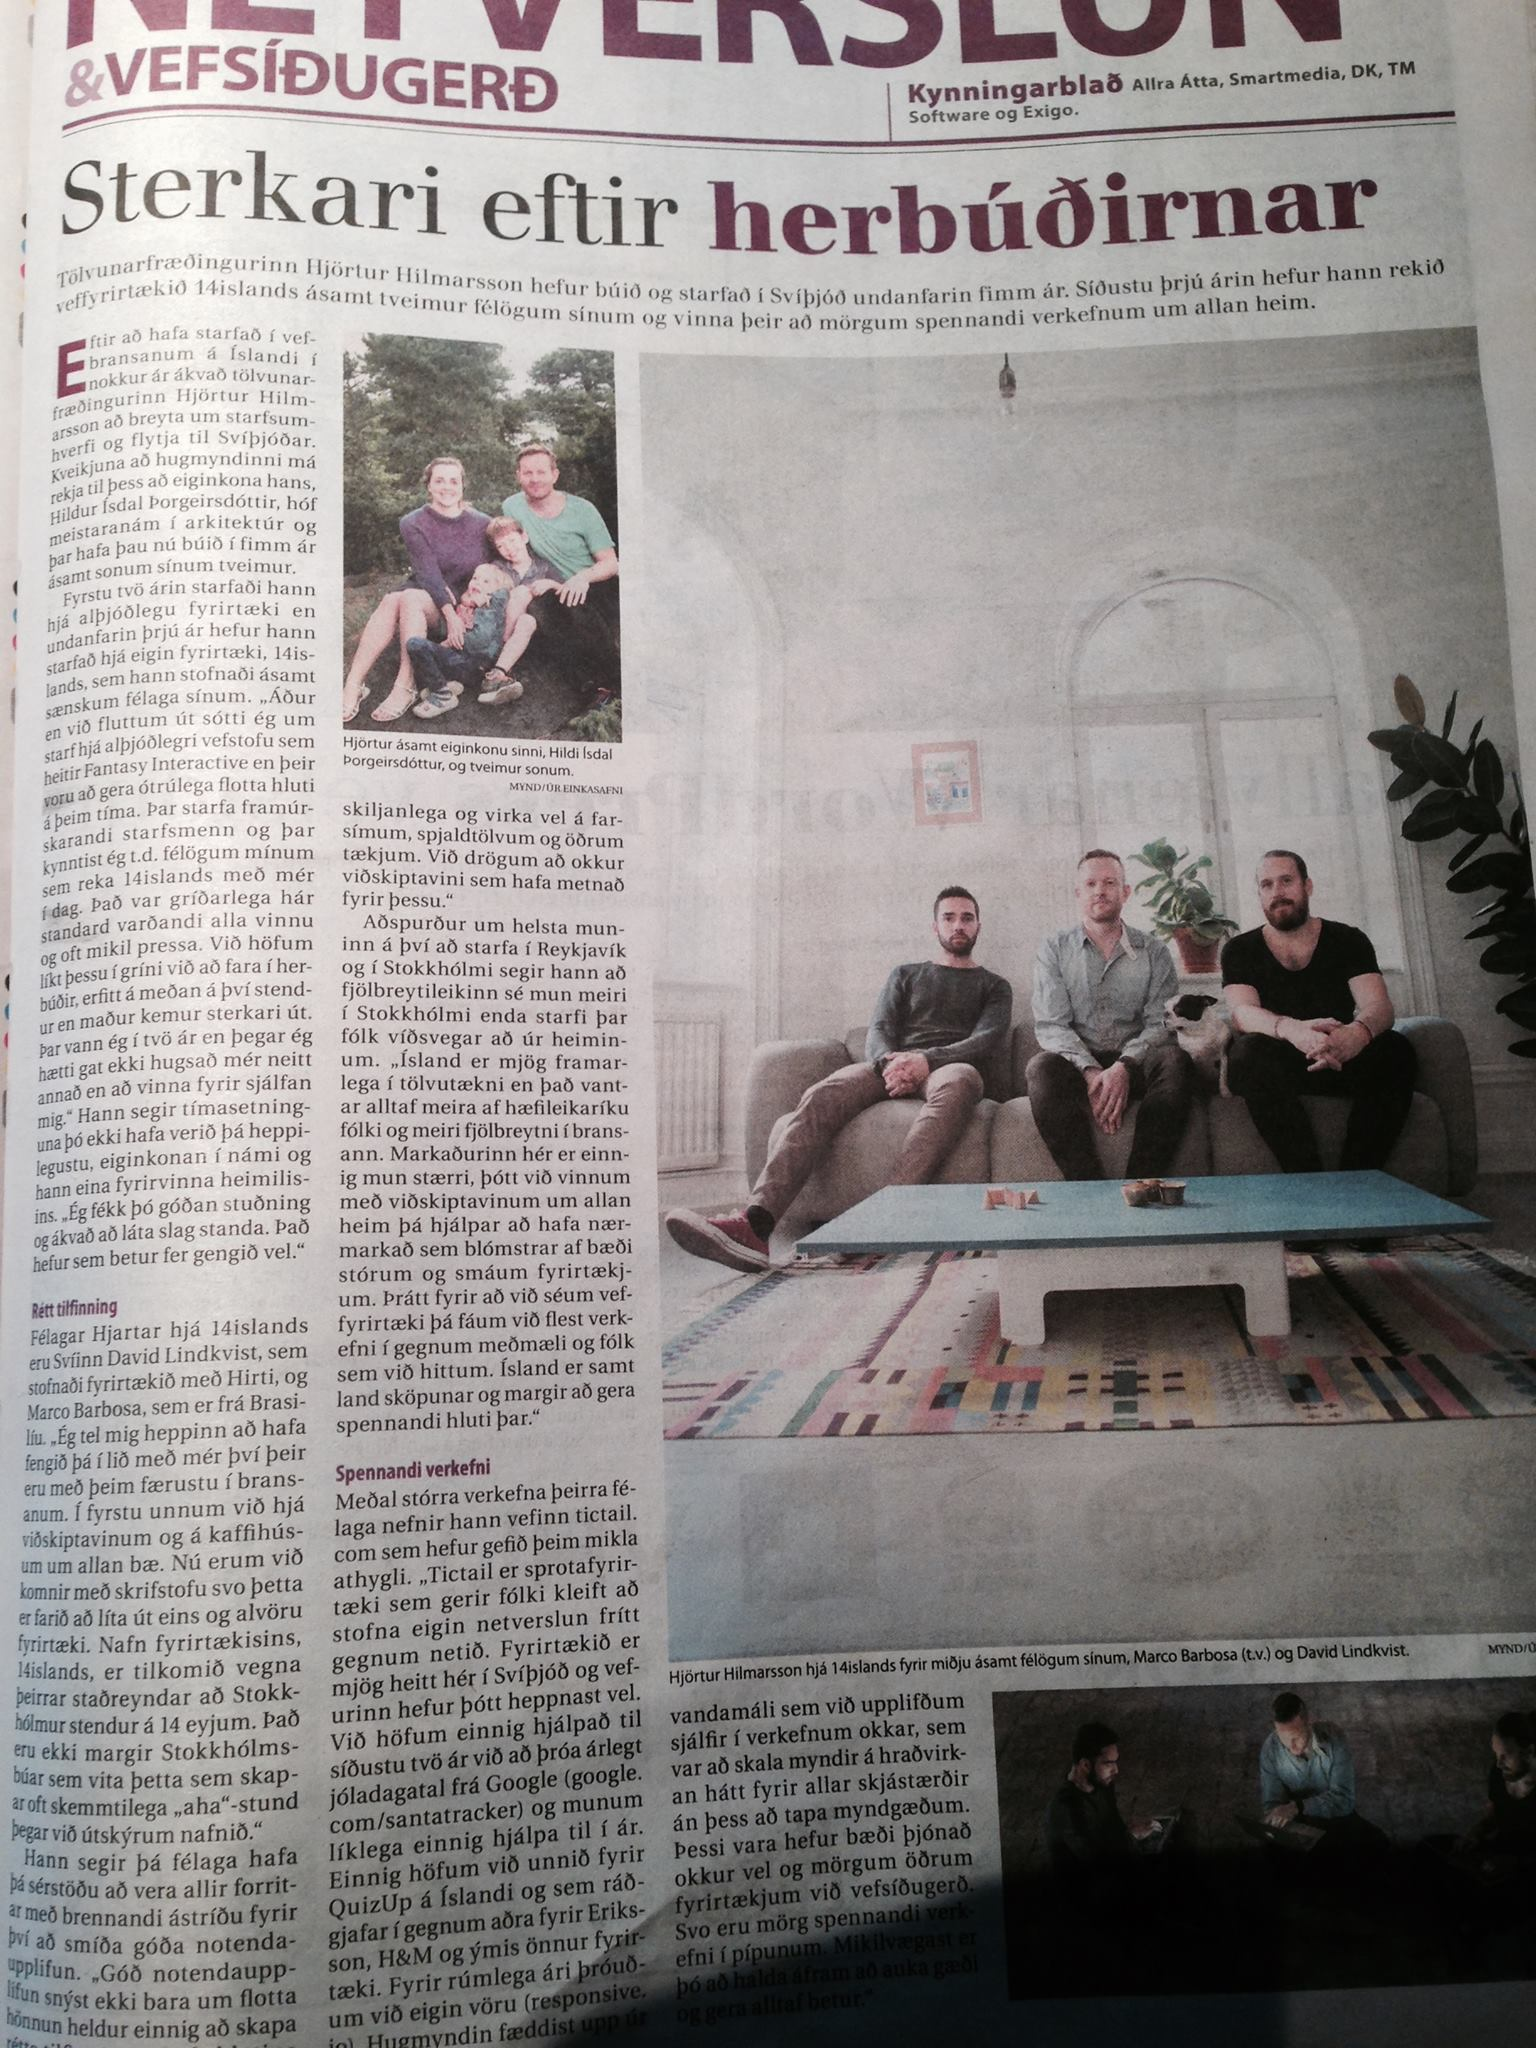
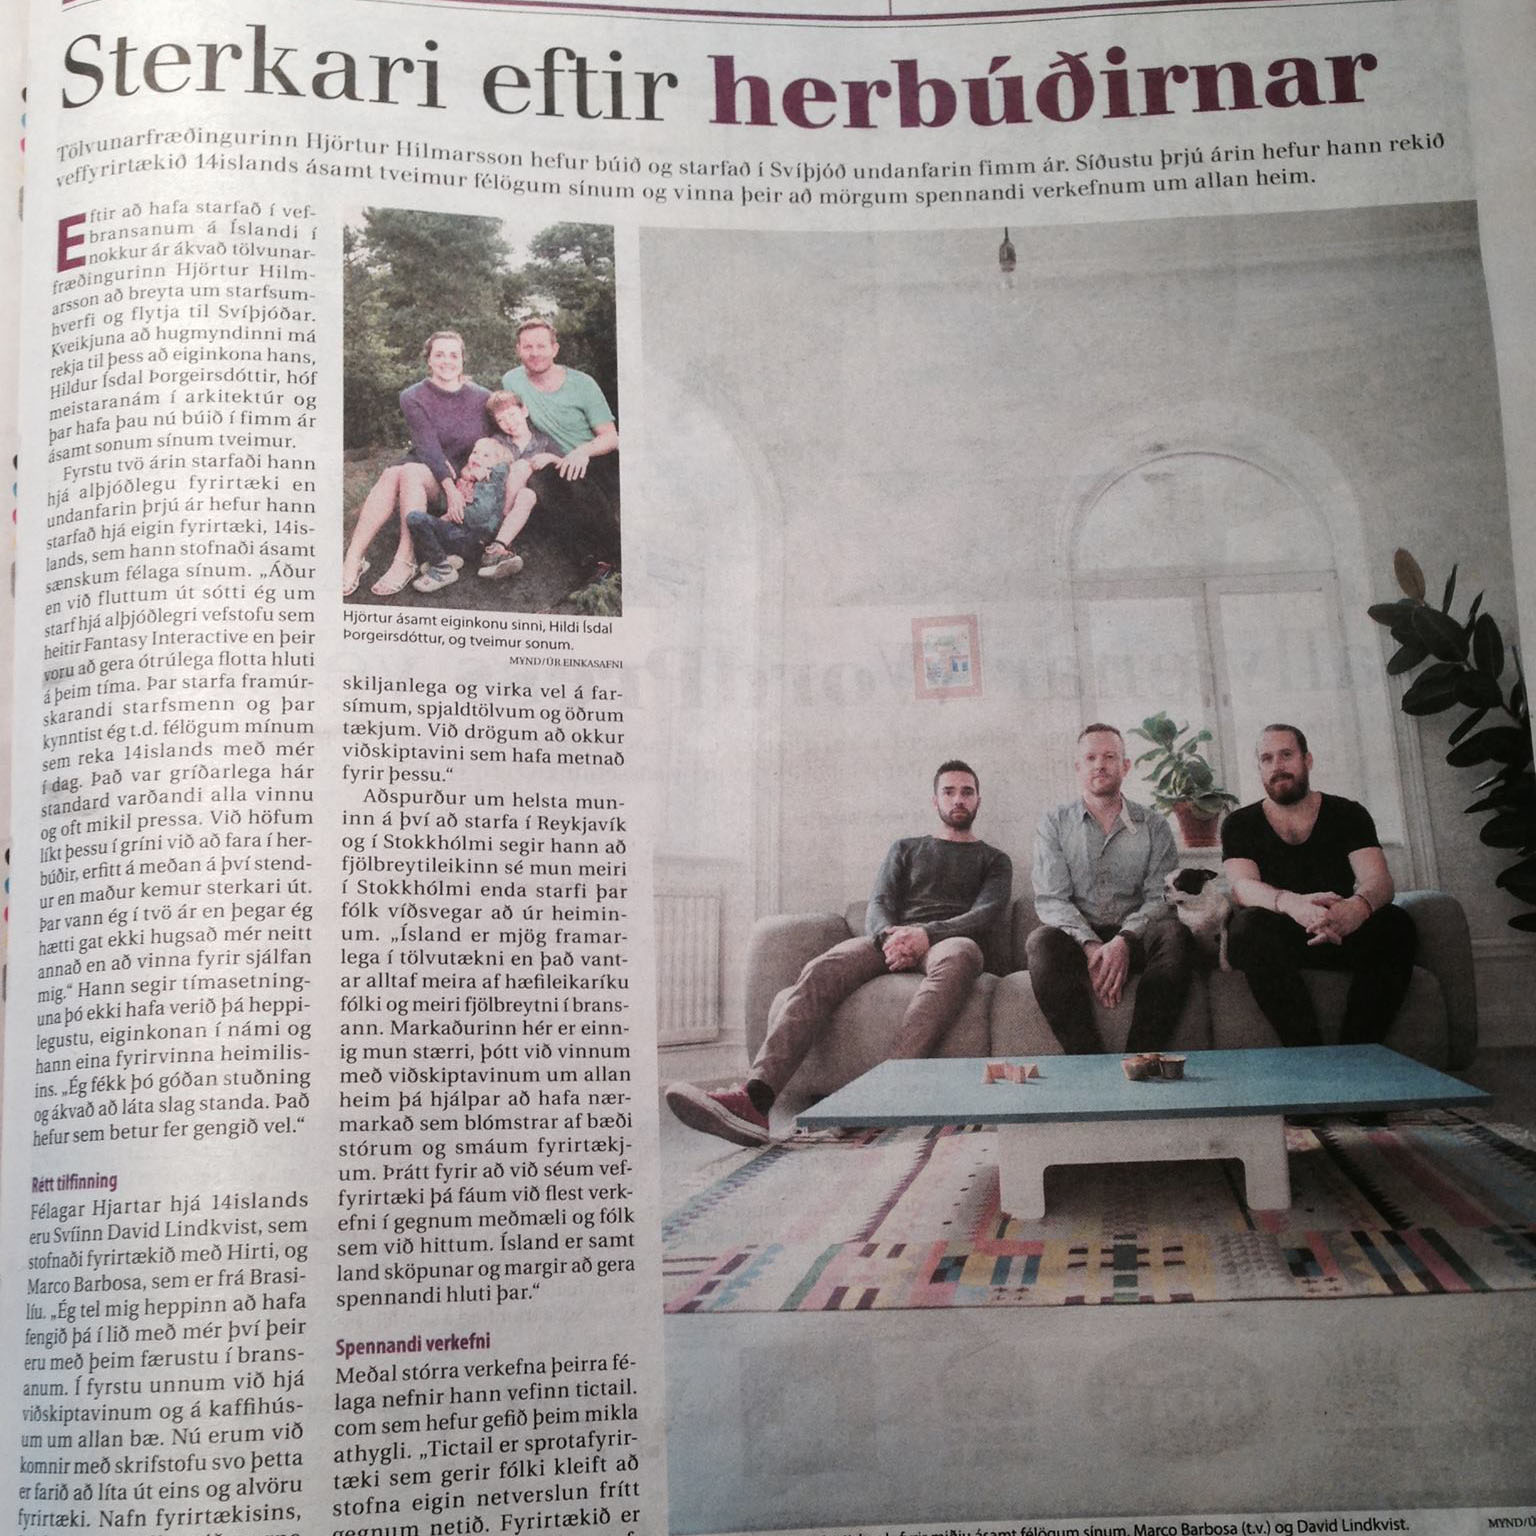
fixed newspaper image ratio

diff --git a/app/blog/_posts/2015-12-28-our-year-in-review-2015.md b/app/blog/_posts/2015-12-28-our-year-in-review-2015.md
@@ -78,7 +78,7 @@ Talks and workshops is also among the fun things we did this year. Marco did one
 
 Breaking news, or not really, but we had our first newspaper appearance in a newspaper in Iceland. Its called [Fréttabladid](http://www.visir.is/section/FRETTABLADID) and is the biggest traditional paper in Iceland. That was something new.
 
-{% include post-image.html alt="Icelandic newspaper" src="/images/blog/year-in-review/icelandic-newspaper.jpg" margin="both" ratio="16_9" %}
+{% include post-image.html alt="Icelandic newspaper" src="/images/blog/year-in-review/icelandic-newspaper.jpg" margin="both" ratio="1_1" %}
 
 
 ## Wave of (cool) client work
